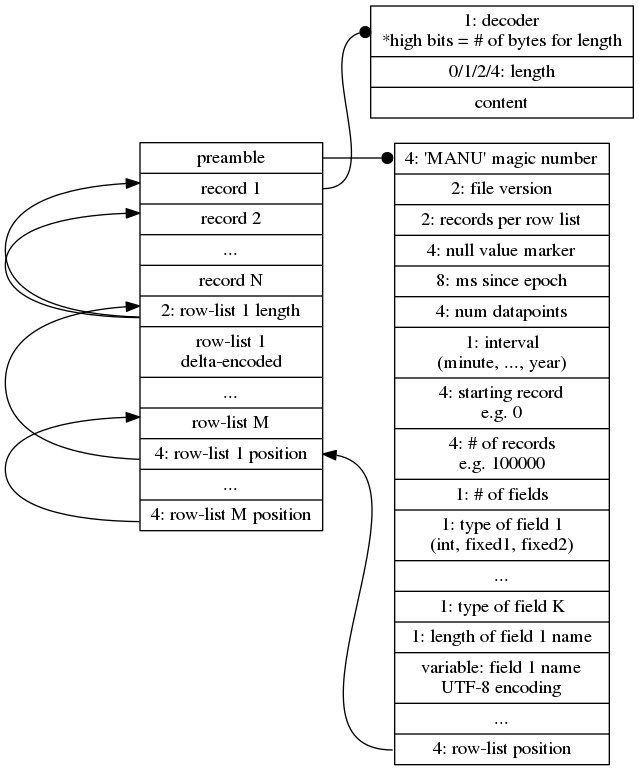
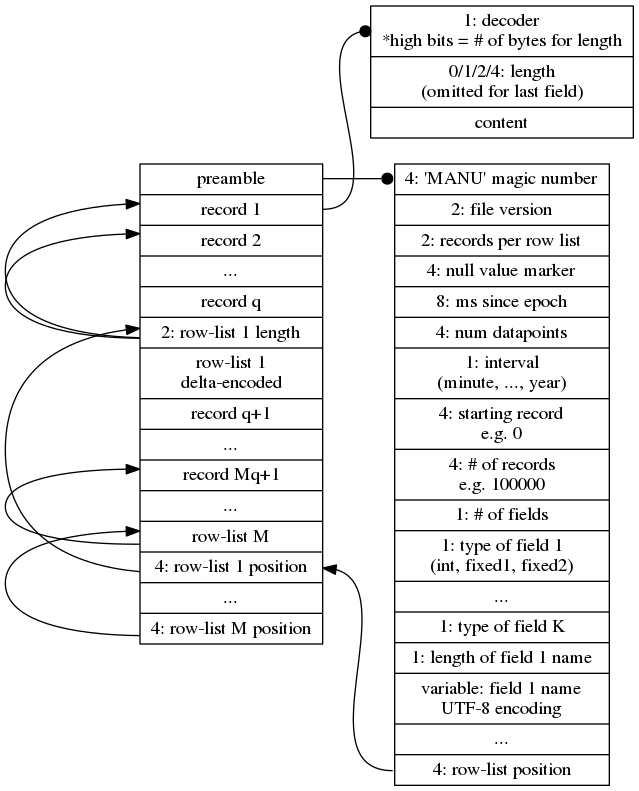
writer: interleave rowlists and records

diff --git a/format/src/main/java/com/cldellow/manu/format/Writer.java b/format/src/main/java/com/cldellow/manu/format/Writer.java
@@ -19,7 +19,7 @@ public class Writer {
             String[] fieldNames,
             FieldType[] fieldTypes,
             Iterator<Record> records) throws FileNotFoundException, IOException, Exception {
-        write(file, (short)1024, Integer.MIN_VALUE, epochMs, -1, interval, 0, fieldNames, fieldTypes, records);
+        write(file, (short) 1024, Integer.MIN_VALUE, epochMs, -1, interval, 0, fieldNames, fieldTypes, records);
     }
 
     public static void write(
@@ -65,7 +65,7 @@ public class Writer {
                 recordPositions.add(dos.size());
                 Record record = records.next();
                 if (record != null) {
-                    if(numDatapoints == -1)
+                    if (numDatapoints == -1)
                         numDatapoints = record.getValues(0).length;
                     writeRecord(currentRecord, numFields, numDatapoints, dos, record, byteArray);
                 } else {
@@ -75,27 +75,18 @@ public class Writer {
                     if (currentRecord % rowListSize == 0)
                         recordPositions.set(currentRecord, recordPositions.get(currentRecord) * -1);
                     else
-                        recordPositions.set(currentRecord, recordPositions.get(currentRecord -1));
+                        recordPositions.set(currentRecord, recordPositions.get(currentRecord - 1));
                 }
                 currentRecord++;
+
+                if (currentRecord % rowListSize == 0)
+                    writeRowList(dos, rowListSize, currentRecord, recordPositions, rowListPositions, intArray);
+
             }
 
-            IntegratedIntegerCODEC codec = Common.getRowListCodec();
-            for (int i = 0; i < currentRecord; i += rowListSize) {
-                IntWrapper inputPos = new IntWrapper(i);
-                IntWrapper outputPos = new IntWrapper(0);
-                int howMany = Math.min(currentRecord - i, rowListSize);
-                int start = recordPositions.get(i);
-                for (int k = i + 1; k < i + howMany; k++) {
-                    recordPositions.set(k, recordPositions.get(k) - start);
-                    start += recordPositions.get(k);
-                }
-                codec.compress(recordPositions.getArray(), inputPos, howMany, intArray, outputPos);
-                rowListPositions.add(dos.size());
-                dos.writeShort(outputPos.get());
-                for (int j = 0; j < outputPos.get(); j++)
-                    dos.writeInt(intArray[j]);
-            }
+            if (currentRecord % rowListSize != 0)
+                writeRowList(dos, rowListSize, currentRecord, recordPositions, rowListPositions, intArray);
+
             rowListOffset = dos.size();
             for (int i = 0; i < rowListPositions.getSize(); i++)
                 dos.writeInt(rowListPositions.get(i));
@@ -104,7 +95,7 @@ public class Writer {
             dos.close();
         }
 
-        if(numDatapoints == -1)
+        if (numDatapoints == -1)
             throw new IllegalArgumentException("unable to infer numDataPoints");
         // Seek and fixup the rowlistposition
         RandomAccessFile raf = new RandomAccessFile(file, "rw");
@@ -115,6 +106,35 @@ public class Writer {
         raf.seek(OFFSET_NUM_RECORDS);
         raf.writeInt(currentRecord);
         raf.close();
+    }
+
+    // writeRowList(dos, rowListSize,currentRecord, recordPositions, rowListPositions);
+    private static void writeRowList(
+            DataOutputStream dos,
+            int rowListSize,
+            int currentRecord,
+            IntVector recordPositions,
+            IntVector rowListPositions,
+            int[] intArray) throws Exception {
+        // NB: currentRecord points past the current record; ie it's the # of records
+        IntegratedIntegerCODEC codec = Common.getRowListCodec();
+        int firstRecord = currentRecord - rowListSize;
+        if (currentRecord % rowListSize != 0)
+            firstRecord = currentRecord / rowListSize * rowListSize;
+
+        IntWrapper inputPos = new IntWrapper(firstRecord);
+        IntWrapper outputPos = new IntWrapper(0);
+        int howMany = Math.min(currentRecord - firstRecord, rowListSize);
+        int start = recordPositions.get(firstRecord);
+        for (int k = firstRecord + 1; k < firstRecord + howMany; k++) {
+            recordPositions.set(k, recordPositions.get(k) - start);
+            start += recordPositions.get(k);
+        }
+        codec.compress(recordPositions.getArray(), inputPos, howMany, intArray, outputPos);
+        rowListPositions.add(dos.size());
+        dos.writeShort(outputPos.get());
+        for (int j = 0; j < outputPos.get(); j++)
+            dos.writeInt(intArray[j]);
     }
 
     private static void writeRecord(int currentRecord, int numFields, int numDatapoints, DataOutputStream dos, Record r, byte[] byteArray) throws IOException {
